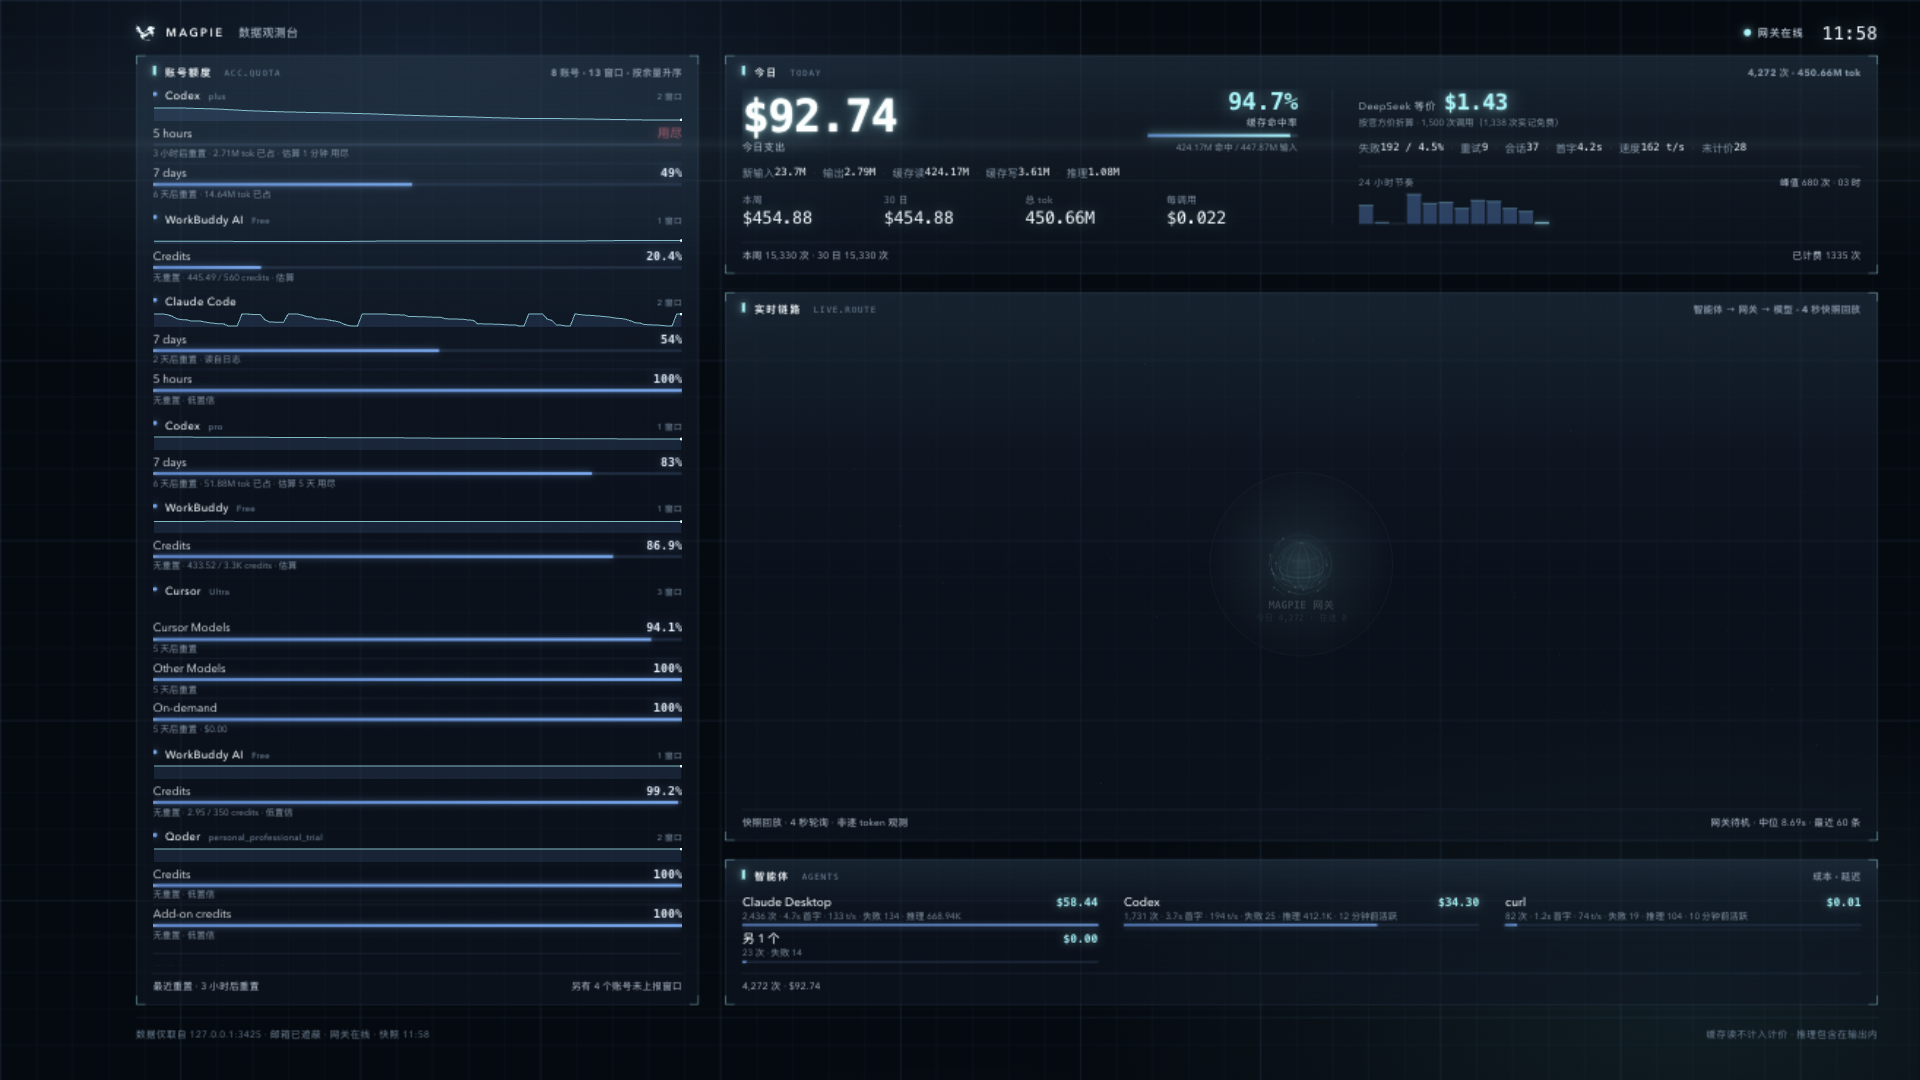
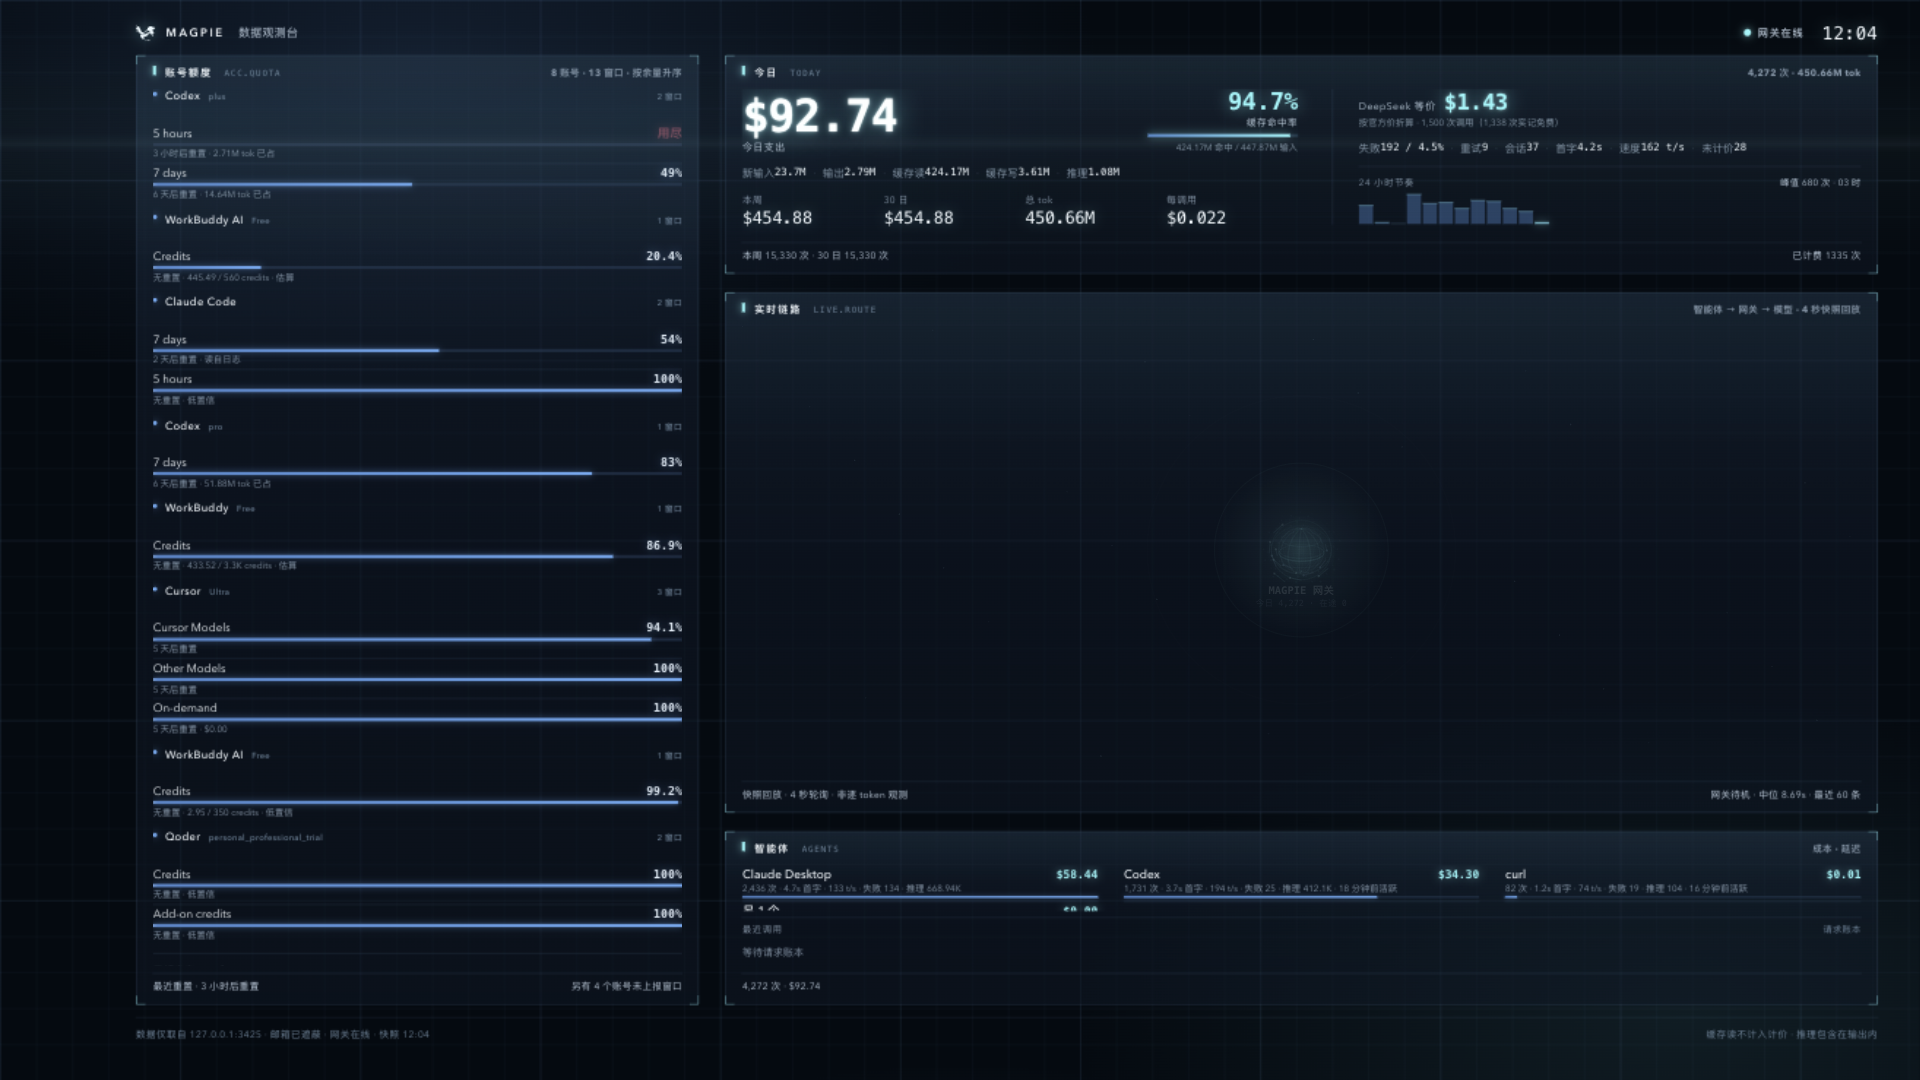
智能体模块加最近调用明细带：请求账本两行，失败标红

diff --git a/design/dashboard.js b/design/dashboard.js
@@ -428,6 +428,29 @@
     $('agent-foot').textContent = integer(today.calls) + ' 次 · ' + money(today.cost);
   }
 
+  /* ── 最近调用：请求账本（usage/requests）的明细带，两行最新真实调用 ── */
+  function renderCalls(requests) {
+    const rows = ((requests && requests.rows) || []).slice(0, 2);
+    keyed($('calls-rows'), rows, (r) => r.t + '|' + (r.session || '') + '|' + (r.model || ''),
+      () => {
+        const row = el('div', 'c-row fresh');
+        ['t', 'ag', 'md', 'out', 'ms', 'cost'].forEach((c) => row.append(el('span', c)));
+        return row;
+      },
+      (node, r) => {
+        const [t, ag, md, out, ms, cost] = node.children;
+        t.textContent = clockOf(r.t);
+        ag.textContent = mask(r.agentName || r.agent);
+        md.textContent = r.served || r.model;
+        out.replaceChildren(el('b', null, compact(r.out)), document.createTextNode(' out'));
+        ms.textContent = r.ms ? (r.ms / 1000).toFixed(1) + 's' : '—';
+        cost.textContent = r.priced ? money(r.cost) : '未计价';
+        node.classList.toggle('bad', !!r.status);
+        if (r.status) md.title = 'HTTP ' + r.status;
+      });
+    if (!rows.length) $('calls-rows').replaceChildren(el('div', 'empty', '等待请求账本'));
+  }
+
   /* ── 链路共享读数：trace 路由整理与统计 ── */
   const median = (list) => {
     if (!list.length) return null;
@@ -1398,10 +1421,11 @@
 
   /* ── 主循环 ── */
   function paint(bundle) {
-    const { today, week, month, quotas, history } = bundle;
+    const { today, week, month, quotas, history, requests } = bundle;
     renderToday(today, week, month);
     renderQuotas(quotas, history);
     renderAgents(today, readLive(bundle.trace));
+    renderCalls(requests);
     renderRouteStage(bundle);
     // 顶栏：网关状态灯 + 时钟；快照时间收进页脚。
     $('gw-label').textContent = online ? '网关在线' : '网关离线';
@@ -1413,17 +1437,19 @@
 
   async function refresh() {
     try {
-      const [today, week, month, quotas, trace, history] = await Promise.all([
+      const [today, week, month, quotas, trace, history, requests] = await Promise.all([
         get('/v1/magpie/usage?period=today'),
         get('/v1/magpie/usage?period=7d'),
         get('/v1/magpie/usage?period=30d'),
         get('/v1/magpie/quotas'),
         get('/v1/magpie/trace'),
         // 燃尽曲线数据：单独容错——拿不到只是少画一条线，不算离线。
-        get('/v1/magpie/quotas/history').catch(() => null)
+        get('/v1/magpie/quotas/history').catch(() => null),
+        // 请求账本：单独容错——拿不到只少两行明细。
+        get('/v1/magpie/usage/requests?period=today&limit=6').catch(() => null)
       ]);
       online = true;
-      lastGood = { today, week, month, quotas, trace, history, at: Date.now() };
+      lastGood = { today, week, month, quotas, trace, history, requests, at: Date.now() };
       paint(lastGood);
     } catch (error) {
       online = false;

diff --git a/design/dashboard.css b/design/dashboard.css
@@ -184,8 +184,8 @@ main {
   min-height: 0;
   display: grid;
   grid-template-columns: repeat(12, minmax(0, 1fr));
-  /* 左栏四列整块留给账号额度；右栏八列三段（今日 / 实时链路 / 智能体）。 */
-  grid-template-rows: minmax(0, 24fr) minmax(0, 60fr) minmax(0, 16fr);
+  /* 左栏四列整块留给账号额度；右栏八列三段（今日 / 实时链路 / 智能体+最近调用）。 */
+  grid-template-rows: minmax(0, 24fr) minmax(0, 57fr) minmax(0, 19fr);
   column-gap: 26px;
   row-gap: 18px;
 }
@@ -563,6 +563,37 @@ main {
 /* 调用占比：名字下一条细轨，宽度 = 该智能体调用数 / 最活跃智能体 */
 .a .share { grid-column: 1 / -1; height: 2px; background: rgba(30, 60, 95, 0.5); margin-top: 2px; }
 .a .share i { display: block; height: 100%; background: linear-gradient(90deg, var(--mark-soft), var(--mark)); box-shadow: 0 0 5px rgba(74, 163, 255, 0.4); }
+
+/* 最近调用：智能体模块底部的请求账本明细带，一行一条真实调用 */
+.calls { flex: none; margin-top: 6px; padding-top: 5px; border-top: 1px solid var(--hair); }
+.calls-t {
+  display: flex;
+  justify-content: space-between;
+  color: var(--dim);
+  font-size: 9px;
+  letter-spacing: 0.1em;
+  margin-bottom: 3px;
+}
+.calls-t em { font-style: normal; color: var(--dim2); letter-spacing: 0.03em; }
+.c-row {
+  display: grid;
+  grid-template-columns: 42px minmax(0, 0.7fr) minmax(0, 1fr) auto auto auto;
+  gap: 10px;
+  align-items: baseline;
+  font-family: var(--mono);
+  font-size: 9px;
+  line-height: 14px;
+  color: var(--muted);
+  white-space: nowrap;
+}
+.c-row > span { overflow: hidden; text-overflow: ellipsis; }
+.c-row .t { color: var(--dim); }
+.c-row .md { color: var(--ink); }
+.c-row b { color: var(--ink); font-weight: 500; }
+.c-row span:nth-child(n+4) { text-align: right; }
+.c-row.bad .md, .c-row.bad b { color: var(--void); }
+.c-row.fresh { animation: rowIn 0.6s ease-out; }
+@keyframes rowIn { from { background: rgba(111, 242, 255, 0.14); } to { background: transparent; } }
 
 /* 实时链路：智能体 → 网关 → 模型的快照回放舞台，右栏的主视觉；网关待机呼吸由画布绘制 */
 .route-body { position: relative; }

diff --git a/design/dashboard.html b/design/dashboard.html
@@ -62,6 +62,10 @@
     <section class="mod c8 r3">
       <h2><span class="tt">智能体 <i class="code">AGENTS</i></span><small>成本 · 延迟</small></h2>
       <div class="body agents-wide" id="agent-list"></div>
+      <div class="calls">
+        <span class="calls-t">最近调用 <em>请求账本</em></span>
+        <div id="calls-rows"></div>
+      </div>
       <div class="mod-foot"><span id="agent-foot"></span></div>
     </section>
   </main>

diff --git a/HANDOFF.md b/HANDOFF.md
@@ -12,6 +12,7 @@
 - **账号额度**：每账号标题下一幅**燃尽曲线**（当前窗口内剩余额度的折线+填充，quotas/history 真实点位）；按当前窗口的真实下降速度推算**「估算 X 后用尽」**（小时速率 <0.5%/h 或重置先到则不估，注在对应窗口行）；模块页脚新增「最快燃尽 · 窗口 · 估算 X」（琥珀色）。原始已有的 <90min 琥珀重置预警保留。
 - **今日**：「最近三小时」三行换成 **24 小时节奏柱状图**（尾部未到的小时裁掉，当前小时青色高亮，悬停看 次数/费用，标题行注峰值）；flow2 换入根级**首字**（ttft_ms/timed）与**生成速度**（decode_out/decode_ms，t/s），去掉 credits/计时两个弱读数。
 - **智能体**：每行名下加**调用占比条**（宽度 = 调数 / 最活跃智能体）；副注追加「X 分钟前活跃」（以 trace 里该智能体最后一次触发时刻为准）。
+- **最近调用明细带**（用户确认追加）：智能体模块底部新增两行请求账本明细（`/v1/magpie/usage/requests?period=today&limit=6`，单独容错），一行 = 时间·智能体·模型·输出 tok·耗时·费用，失败行标红、未计价标「未计价」、新行青光入场；智能体名过 `mask()`。行高从 24/60/16 调到 24/57/19 给明细带腾位。点击行星弹层的方案不可行——壁纸窗口鼠标完全穿透，无法接收点击。
 - 本轮验证：真实数据截图核对（燃尽曲线下降形态、估算 3.7 小时、节奏图峰值 158 次 @13 时、占比条与活跃标注）；`impeccable detect` 无 error；`swift build` / `swift test` / `./build-app.sh` 通过。
 
 ## 2026-10-24：链路舞台按触发出场 + 常驻 3D 网关核心

diff --git a/DESIGN.md b/DESIGN.md
@@ -168,6 +168,10 @@ components:
 ### 调用占比条 Share
 - **形态:** 智能体名下 2px 细轨，宽度 = 该智能体调用数 / 最活跃智能体，蓝渐变微辉；配「X 分钟前活跃」副注（trace 最后触发时刻）
 
+### 最近调用明细带 Calls
+- **位置:** 智能体机柜底部，发丝线上方标「最近调用 | 请求账本」，两行 mono 9px
+- **内容:** 时间·智能体（遮蔽）·模型·输出 tok·耗时·费用（未计价标「未计价」），来自 usage/requests 请求账本；失败行整行红；新行 0.6s 青光入场
+
 ## Do's and Don'ts
 
 ### Do:
